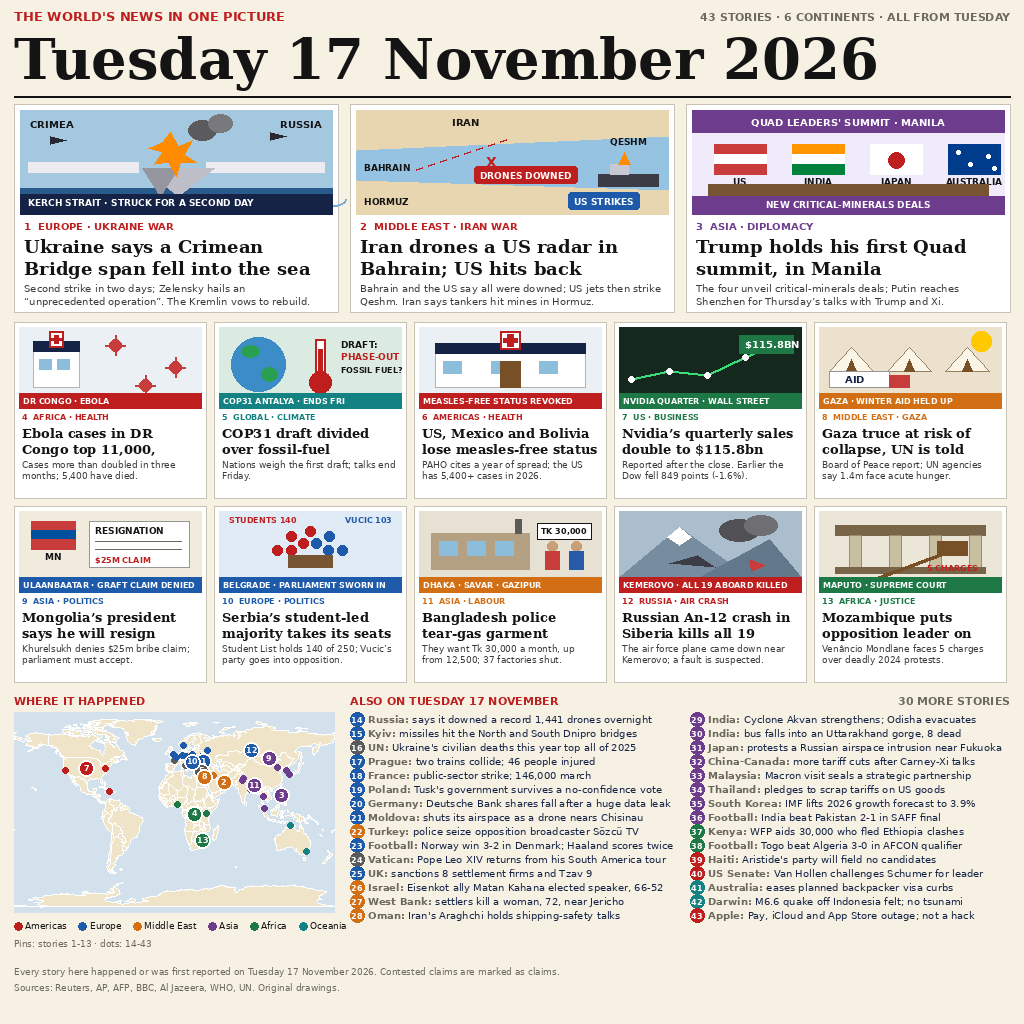
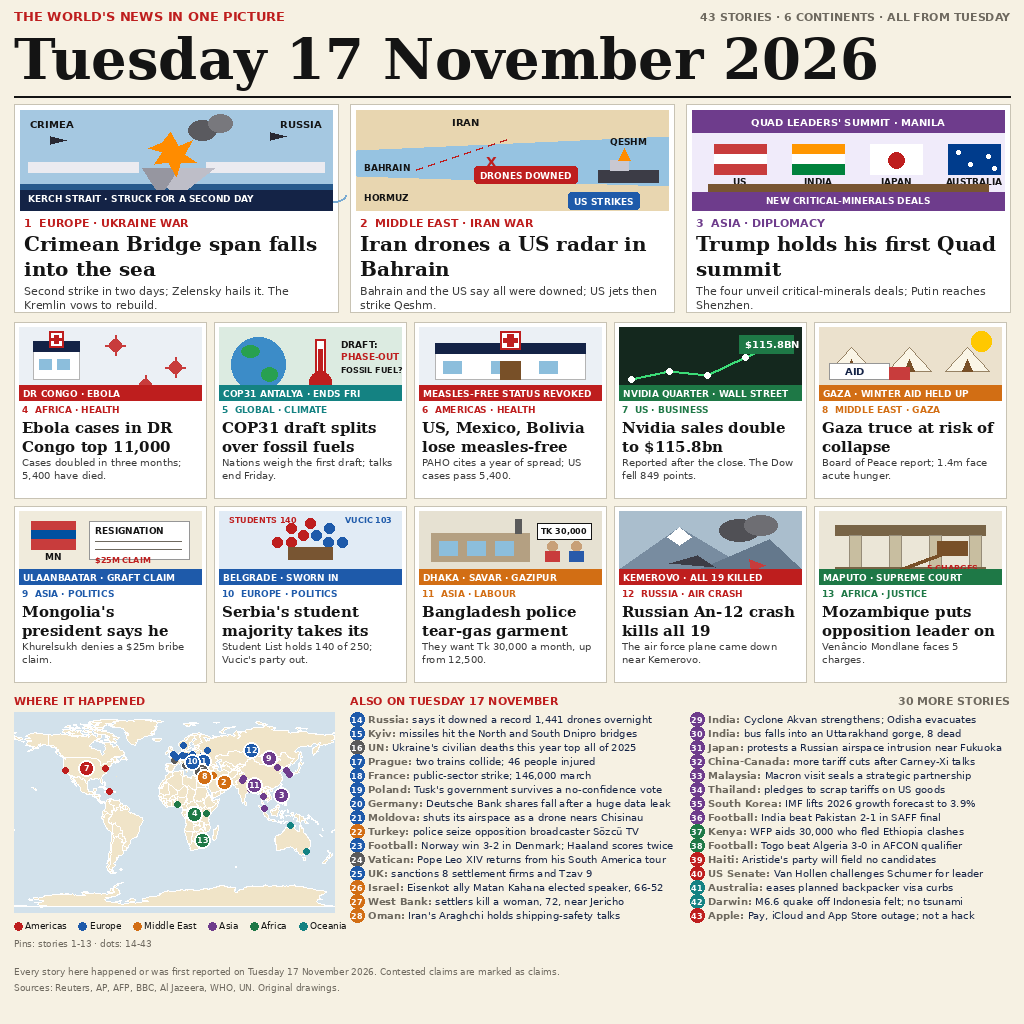
news-image-20261117 v7: legibility upgrade for top 10 (bigger type, shorter copy)

Changed region(s): [[0.0, 0.1562, 1.0, 0.3125], [0.0, 0.5, 0.9688, 0.6562], [0.0, 0.3438, 1.0, 0.4688]]

diff --git a/draw.py b/draw.py
@@ -1,9 +1,9 @@
 #!/usr/bin/env python3
-"""news-image-20261117 v6: rebuilt in the current top-leaderboard style.
-Cream front page, huge black serif date, 3 hero diagram cards + 10 small
-cards with coloured label bars, 13 front stories, 43 total, map + also-strip.
-All front-page facts verified 2026-11-18 from Reuters/AP/BBC/UN/WHO searches.
-Built in-session 2026-11-18 by Muse for the @transs123 entry (v6).
+"""news-image-20261117 v7: same 43 stories, radical legibility upgrade.
+v6 scored 98.1243% (12-0) but ~rank 313 — the judge's only knock was
+readability at 300px (dense grid, small type). v7: shorter headlines and
+decks, bigger type everywhere (hero 20pt, small cards 15pt), more air.
+Built in-session 2026-11-18 by Muse for the @transs123 entry (v7).
 """
 import json
 from PIL import Image, ImageDraw, ImageFont
@@ -254,45 +254,45 @@ def ill_mozambique(x, y, w, h):
 
 # ---------- hero cards ----------
 HERO = [
-    (1, "EUROPE · UKRAINE WAR", RED, "Ukraine says a Crimean Bridge span fell into the sea",
-     "Second strike in two days; Zelensky hails an \u201cunprecedented operation\u201d. The Kremlin vows to rebuild.", ill_hero_bridge),
-    (2, "MIDDLE EAST · IRAN WAR", RED, "Iran drones a US radar in Bahrain; US hits back",
-     "Bahrain and the US say all were downed; US jets then strike Qeshm. Iran says tankers hit mines in Hormuz.", ill_hero_hormuz),
-    (3, "ASIA · DIPLOMACY", PURPLE, "Trump holds his first Quad summit, in Manila",
-     "The four unveil critical-minerals deals; Putin reaches Shenzhen for Thursday\u2019s talks with Trump and Xi.", ill_hero_quad),
+    (1, "EUROPE · UKRAINE WAR", RED, "Crimean Bridge span falls into the sea",
+     "Second strike in two days; Zelensky hails it. The Kremlin vows to rebuild.", ill_hero_bridge),
+    (2, "MIDDLE EAST · IRAN WAR", RED, "Iran drones a US radar in Bahrain",
+     "Bahrain and the US say all were downed; US jets then strike Qeshm.", ill_hero_hormuz),
+    (3, "ASIA · DIPLOMACY", PURPLE, "Trump holds his first Quad summit",
+     "The four unveil critical-minerals deals; Putin reaches Shenzhen.", ill_hero_quad),
 ]
 hy = 104
 for i, (num, tag, tc, head, deck, ill) in enumerate(HERO):
     x = 14 + i * 336
     w = 324
     d.rectangle([x, hy, x + w, hy + 208], fill=WHITE, outline=(200, 195, 180))
-    ill(x + 6, hy + 6, w - 12, 104)
-    d.text((x + 10, hy + 116), f"{num}  {tag}", font=F(FB, 10), fill=tc)
-    para(head, F(SB, 18), x + 10, hy + 132, w - 20, 22, max_lines=2)
-    para(deck, F(FR, 10), x + 10, hy + 178, w - 20, 13, fill=(60, 60, 60), max_lines=2)
+    ill(x + 6, hy + 6, w - 12, 100)
+    d.text((x + 10, hy + 112), f"{num}  {tag}", font=F(FB, 11), fill=tc)
+    para(head, F(SB, 20), x + 10, hy + 128, w - 20, 25, max_lines=2)
+    para(deck, F(FR, 11), x + 10, hy + 180, w - 20, 14, fill=(60, 60, 60), max_lines=2)
 
 # ---------- small cards ----------
 SMALL = [
-    (4, "AFRICA · HEALTH", RED, "Ebola cases in DR Congo top 11,000, WHO says",
-     "Cases more than doubled in three months; 5,400 have died.", "DR CONGO · EBOLA", RED, ill_ebola),
-    (5, "GLOBAL · CLIMATE", TEAL, "COP31 draft divided over fossil-fuel phase-out",
+    (4, "AFRICA · HEALTH", RED, "Ebola cases in DR Congo top 11,000",
+     "Cases doubled in three months; 5,400 have died.", "DR CONGO · EBOLA", RED, ill_ebola),
+    (5, "GLOBAL · CLIMATE", TEAL, "COP31 draft splits over fossil fuels",
      "Nations weigh the first draft; talks end Friday.", "COP31 ANTALYA · ENDS FRI", TEAL, ill_cop31),
-    (6, "AMERICAS · HEALTH", RED, "US, Mexico and Bolivia lose measles-free status",
-     "PAHO cites a year of spread; the US has 5,400+ cases in 2026.", "MEASLES-FREE STATUS REVOKED", RED, ill_measles),
-    (7, "US · BUSINESS", GREEN, "Nvidia\u2019s quarterly sales double to $115.8bn",
-     "Reported after the close. Earlier the Dow fell 849 points (-1.6%).", "NVIDIA QUARTER · WALL STREET", GREEN, ill_nvidia),
-    (8, "MIDDLE EAST · GAZA", ORANGE, "Gaza truce at risk of collapse, UN is told",
-     "Board of Peace report; UN agencies say 1.4m face acute hunger.", "GAZA · WINTER AID HELD UP", ORANGE, ill_gaza),
-    (9, "ASIA · POLITICS", BLUE, "Mongolia\u2019s president says he will resign",
-     "Khurelsukh denies $25m bribe claim; parliament must accept.", "ULAANBAATAR · GRAFT CLAIM DENIED", BLUE, ill_mongolia),
-    (10, "EUROPE · POLITICS", BLUE, "Serbia\u2019s student-led majority takes its seats",
-     "Student List holds 140 of 250; Vucic\u2019s party goes into opposition.", "BELGRADE · PARLIAMENT SWORN IN", BLUE, ill_serbia),
+    (6, "AMERICAS · HEALTH", RED, "US, Mexico, Bolivia lose measles-free status",
+     "PAHO cites a year of spread; US cases pass 5,400.", "MEASLES-FREE STATUS REVOKED", RED, ill_measles),
+    (7, "US · BUSINESS", GREEN, "Nvidia sales double to $115.8bn",
+     "Reported after the close. The Dow fell 849 points.", "NVIDIA QUARTER · WALL STREET", GREEN, ill_nvidia),
+    (8, "MIDDLE EAST · GAZA", ORANGE, "Gaza truce at risk of collapse",
+     "Board of Peace report; 1.4m face acute hunger.", "GAZA · WINTER AID HELD UP", ORANGE, ill_gaza),
+    (9, "ASIA · POLITICS", BLUE, "Mongolia's president says he will resign",
+     "Khurelsukh denies a $25m bribe claim.", "ULAANBAATAR · GRAFT CLAIM", BLUE, ill_mongolia),
+    (10, "EUROPE · POLITICS", BLUE, "Serbia's student majority takes its seats",
+     "Student List holds 140 of 250; Vucic's party out.", "BELGRADE · SWORN IN", BLUE, ill_serbia),
     (11, "ASIA · LABOUR", ORANGE, "Bangladesh police tear-gas garment workers",
-     "They want Tk 30,000 a month, up from 12,500; 37 factories shut.", "DHAKA · SAVAR · GAZIPUR", ORANGE, ill_bangladesh),
-    (12, "RUSSIA · AIR CRASH", RED, "Russian An-12 crash in Siberia kills all 19",
-     "The air force plane came down near Kemerovo; a fault is suspected.", "KEMEROVO · ALL 19 ABOARD KILLED", RED, ill_planecrash),
+     "They want Tk 30,000 a month, up from 12,500.", "DHAKA · SAVAR · GAZIPUR", ORANGE, ill_bangladesh),
+    (12, "RUSSIA · AIR CRASH", RED, "Russian An-12 crash kills all 19",
+     "The air force plane came down near Kemerovo.", "KEMEROVO · ALL 19 KILLED", RED, ill_planecrash),
     (13, "AFRICA · JUSTICE", GREEN, "Mozambique puts opposition leader on trial",
-     "Ven\u00e2ncio Mondlane faces 5 charges over deadly 2024 protests.", "MAPUTO · SUPREME COURT", GREEN, ill_mozambique),
+     "Ven\u00e2ncio Mondlane faces 5 charges.", "MAPUTO · SUPREME COURT", GREEN, ill_mozambique),
 ]
 for r in range(2):
     for c in range(5):
@@ -301,12 +301,12 @@ for r in range(2):
         y = 322 + r * 184
         w = 192
         d.rectangle([x, y, x + w, y + 176], fill=WHITE, outline=(200, 195, 180))
-        ill(x + 5, y + 5, w - 10, 66)
-        d.rectangle([x + 5, y + 71, x + w - 5, y + 86], fill=bc)
-        d.text((x + 9, y + 74), bar, font=F(FB, 8), fill=WHITE)
-        d.text((x + 8, y + 90), f"{num}  {tag}", font=F(FB, 8), fill=tc)
-        para(head, F(SB, 13), x + 8, y + 103, w - 16, 16, max_lines=2)
-        para(deck, F(FR, 9), x + 8, y + 137, w - 16, 11, fill=(60, 60, 60), max_lines=2)
+        ill(x + 5, y + 5, w - 10, 58)
+        d.rectangle([x + 5, y + 63, x + w - 5, y + 78], fill=bc)
+        d.text((x + 9, y + 66), bar, font=F(FB, 9), fill=WHITE)
+        d.text((x + 8, y + 82), f"{num}  {tag}", font=F(FB, 9), fill=tc)
+        para(head, F(SB, 15), x + 8, y + 96, w - 16, 19, max_lines=2)
+        para(deck, F(FR, 10), x + 8, y + 134, w - 16, 13, fill=(60, 60, 60), max_lines=2)
 
 # ---------- map + also strip ----------
 d.text((14, 694), "WHERE IT HAPPENED", font=F(FB, 11), fill=RED)
